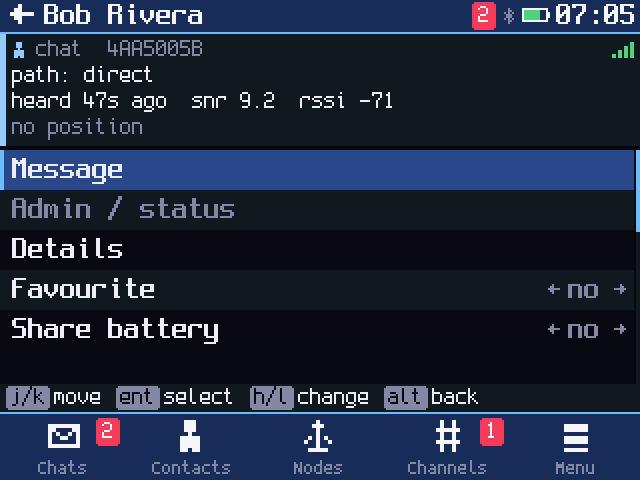
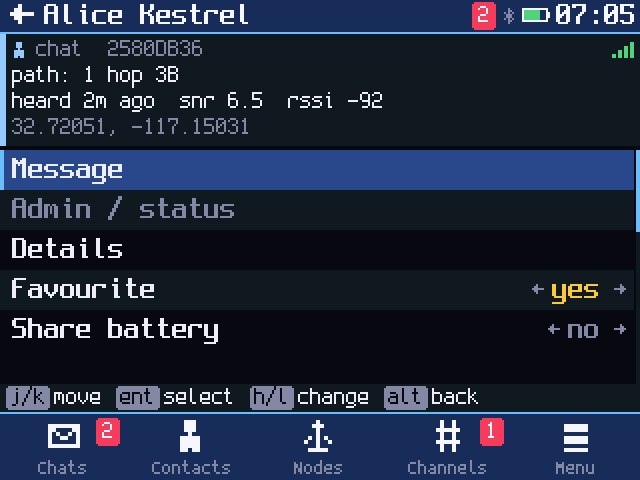
Touch: drags move in the finger's direction, and no Home tab strip with the shortcut bar
A drag down moves a list's selection down and a conversation toward the
newest, as j/k do. With the shortcut bar its icons are the tabs: Home drops
the strip (it comes back only for a search) and the header names the tab.

Changed region(s): [[0.0, 0.0938, 0.625, 0.2812], [0.0938, 0.0, 0.4062, 0.0625], [0.8125, 0.5938, 0.9375, 0.625]]

diff --git a/src/ui/screens/home.cpp b/src/ui/screens/home.cpp
@@ -34,7 +34,7 @@ class HomeScreen : public Screen {
 public:
   const char* title(App& a) override {
     // Remote mode: whose screen this is.
-    if (a.m().mode() != model::Mode::Remote) return "MeshCore";
+    if (a.m().mode() != model::Mode::Remote) return a.showBar() ? kTabNames[_tab] : "MeshCore";
     return a.m().prefs().nodeName[0] ? a.m().prefs().nodeName : "Remote node";
   }
 
@@ -56,9 +56,10 @@ public:
   }
 
   void draw(App& a, Canvas& c, const Rect& r) override {
-    drawTabs(a, c, r);
     const Metrics& m = a.mx();
-    Rect lr{r.x, r.y + m.tab, r.w, r.h - m.tab};
+    const int th = tabH(a);
+    if (th) drawTabs(a, c, r);
+    Rect lr{r.x, r.y + th, r.w, r.h - th};
     ListNav& nav = _nav[_tab];
     int rowH = _tab == T_CHATS ? m.chatRow : m.row;
     int vis = lr.h / rowH;
@@ -91,7 +92,7 @@ public:
   void onKey(App& a, const Key& k) override {
     ListNav& nav = _nav[_tab];
     Rect r = a.content();
-    int vis = (r.h - a.mx().tab) / (_tab == T_CHATS ? a.mx().chatRow : a.mx().row);
+    int vis = (r.h - tabH(a)) / (_tab == T_CHATS ? a.mx().chatRow : a.mx().row);
     int tab = -1;
     if ((k.code == K_LEFT || k.code == K_RIGHT) && !k.repeat)   // one tab per press
       tab = (_tab + (k.code == K_RIGHT ? 1 : T_COUNT - 1)) % T_COUNT;
@@ -178,6 +179,10 @@ public:
   }
 
 private:
+  // The tab strip; with the shortcut bar its icons are the tabs, and the
+  // strip is there only for a search.
+  int tabH(App& a) const { return a.showBar() && !_query[0] && !_typing ? 0 : a.mx().tab; }
+
   void drawTabs(App& a, Canvas& c, const Rect& r) {
     const int TH = a.mx().tab;
     const mc_font_t* f = a.fMed();

diff --git a/src/ui/screens/conversation.cpp b/src/ui/screens/conversation.cpp
@@ -213,14 +213,15 @@ public:
     }
   }
 
-  // Dragging scrolls by the pixel, the messages following the finger; past
-  // the oldest loaded, older ones come in (at most twice a second).
+  // Dragging scrolls by the pixel, the view moving with the finger as the
+  // arrow keys move it (down is toward the newest); past the oldest loaded,
+  // older ones come in (at most twice a second).
   void onTouch(App& a, const Gesture& g, const HitTarget* t) override {
     if (g.type != Gesture::DRAG || _composing) { Screen::onTouch(a, g, t); return; }
-    _scroll += g.dy;
+    _scroll -= g.dy;
     if (_scroll > _maxScroll) {
       _scroll = _maxScroll;
-      if (g.dy > 0 && a.nowMs() - _lastLoad > 500) {
+      if (g.dy < 0 && a.nowMs() - _lastLoad > 500) {
         _lastLoad = a.nowMs();
         int n = a.m().loadOlder(id);
         if (n) _showOlder = n;
@@ -228,7 +229,7 @@ public:
     }
     if (_scroll < 0) {
       _scroll = 0;
-      if (g.dy < 0 && !a.m().atNewest(id) && a.nowMs() - _lastLoad > 500) {
+      if (g.dy > 0 && !a.m().atNewest(id) && a.nowMs() - _lastLoad > 500) {
         _lastLoad = a.nowMs();
         _keepBottom = a.m().loadNewer(id);
       }

diff --git a/src/ui/app.cpp b/src/ui/app.cpp
@@ -405,10 +405,10 @@ void Screen::onTouch(App& a, const Gesture& g, const HitTarget* t) {
       }
       return;
     case Gesture::DRAG: {
-      // The content follows the finger: dragging up shows what is below.
+      // The selection follows the finger: dragging down moves it down.
       int n = a.dragSteps(g.dy, a.mx().row);
-      for (; n > 0; n--) a.key(K_UP);
-      for (; n < 0; n++) a.key(K_DOWN);
+      for (; n > 0; n--) a.key(K_DOWN);
+      for (; n < 0; n++) a.key(K_UP);
       return;
     }
     case Gesture::SWIPE:

diff --git a/src/ui/app.h b/src/ui/app.h
@@ -163,6 +163,8 @@ public:
   const mc_font_t* fMenu() const { return _mx->menu; }
 
   Rect content() const;
+  // The shortcut bar is showing (touch, and the screen isn't taking text).
+  bool showBar();
   // Vim keys are on and the screen on top isn't taking text.
   bool vimActive();
 
@@ -171,7 +173,6 @@ private:
   void handleKey(Key k, uint32_t now);
   void handleGesture(const Gesture& g);
   bool keyboardText();
-  bool showBar();
   void drawShortcutBar();
   void render();
   void drawHeader();

diff --git a/README.md b/README.md
@@ -103,8 +103,9 @@ Touch:
   from anywhere, with unread counts. It hides while typing.
 - **Rows:** tap to open, hold for details. A heard advert is added on a
   second tap.
-- **Drag** to move through lists and scroll conversations; older messages
-  load at the top. **Swipe sideways** on Home to change tabs.
+- **Drag** to move through lists and scroll conversations, in the direction
+  of the finger, as j/k do: drag up for older messages, which load at the top.
+  The header names the tab; there's no tab strip, the bar is the tabs. **Swipe sideways** on Home to change tabs.
 - **‹** in the header goes back; hold it for Home.
 - A setting's value shows `‹ value ›`: tap either side to change it.
 
